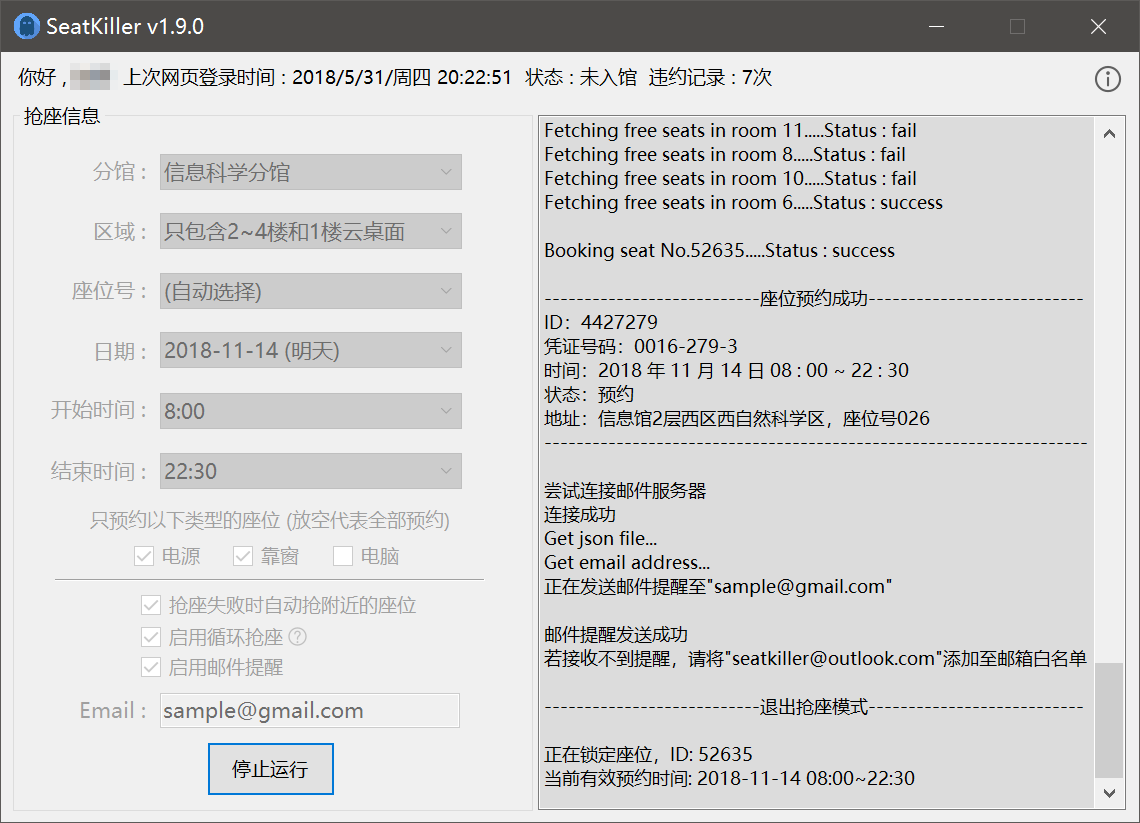
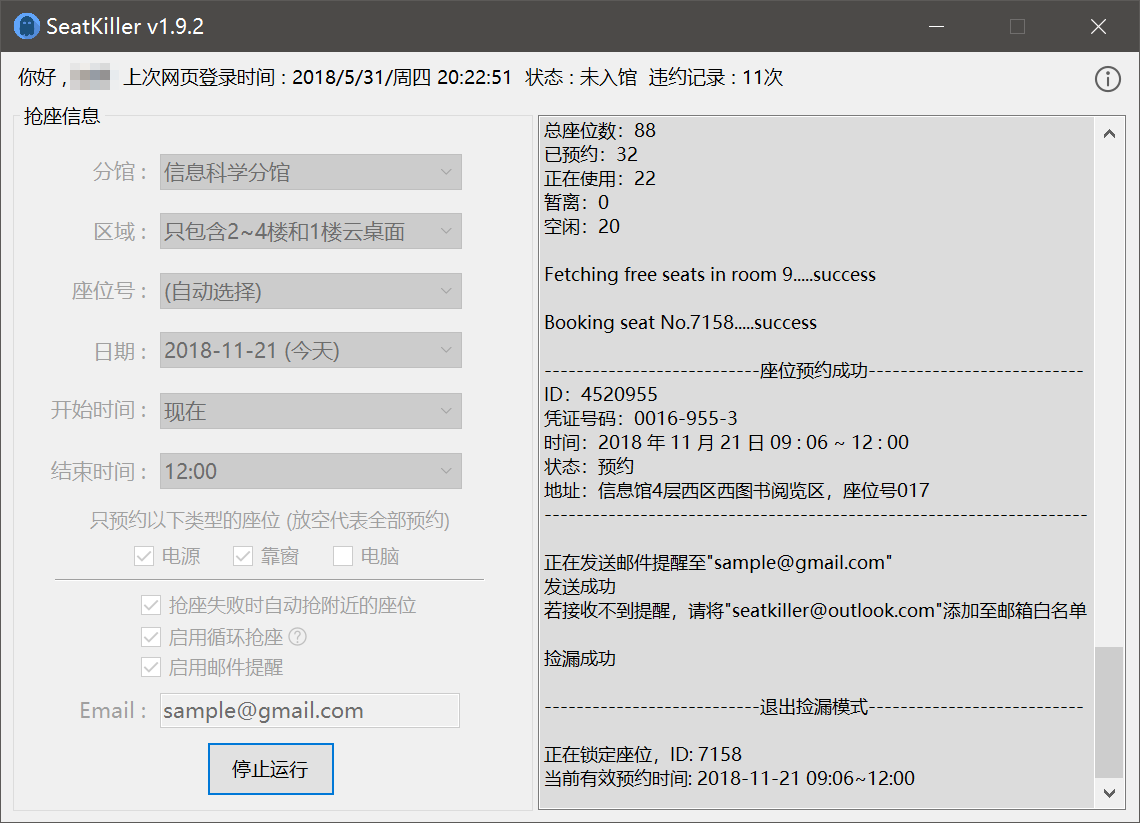
修复区域号错乱的问题

diff --git a/SeatKiller_UI/SeatKiller.cs b/SeatKiller_UI/SeatKiller.cs
@@ -750,7 +750,7 @@ namespace SeatKiller_UI
                 }
                 catch
                 {
-                    Config.config.textBox2.AppendText("连接丢失");
+                    Config.config.textBox2.AppendText("\r\n连接丢失");
                 }
             }
             else if (to_addr == "")
@@ -981,7 +981,6 @@ namespace SeatKiller_UI
         public static bool Loop(string buildingId, string[] rooms, string startTime, string endTime, string roomId = "0", string seatId = "0")
         {
             Config.config.textBox2.AppendText("\r\n\r\n---------------------------进入捡漏模式---------------------------\r\n");
-            string date = DateTime.Now.ToString("yyyy-MM-dd");
 
             if (DateTime.Now.TimeOfDay.TotalMinutes < 60 || DateTime.Now.TimeOfDay.TotalMinutes > 1420)
             {
@@ -994,6 +993,7 @@ namespace SeatKiller_UI
                 return false;
             }
 
+            string date = DateTime.Now.ToString("yyyy-MM-dd");
             GetRooms(buildingId);
 
             if (seatId != "0" && !Config.config.checkBox1.Checked)
@@ -1012,6 +1012,11 @@ namespace SeatKiller_UI
                     Config.config.textBox2.AppendText("\r\n\r\n捡漏失败，超出系统开放时间\r\n");
                     Config.config.textBox2.AppendText("\r\n---------------------------退出捡漏模式---------------------------\r\n");
                     return false;
+                }
+
+                if (startTime != "-1" && (int)DateTime.Now.TimeOfDay.TotalMinutes > int.Parse(startTime))
+                {
+                    startTime = "-1";
                 }
 
                 if (seatId != "0")
@@ -1116,8 +1121,6 @@ namespace SeatKiller_UI
         public static bool ExchangeLoop(string buildingId, string[] rooms, string startTime, string endTime, string roomId = "0", string seatId = "0")
         {
             Config.config.textBox2.AppendText("\r\n\r\n---------------------------进入改签模式---------------------------\r\n");
-            bool cancelled = false;
-            string date = DateTime.Now.ToString("yyyy-MM-dd");
 
             if (DateTime.Now.TimeOfDay.TotalMinutes < 60 || DateTime.Now.TimeOfDay.TotalMinutes > 1420)
             {
@@ -1130,6 +1133,8 @@ namespace SeatKiller_UI
                 return false;
             }
 
+            bool cancelled = false;
+            string date = DateTime.Now.ToString("yyyy-MM-dd");
             GetRooms(buildingId);
 
             if (seatId != "0" && !Config.config.checkBox1.Checked)
@@ -1148,6 +1153,11 @@ namespace SeatKiller_UI
                     Config.config.textBox2.AppendText("\r\n\r\n改签失败，超出系统开放时间\r\n");
                     Config.config.textBox2.AppendText("\r\n---------------------------退出改签模式---------------------------\r\n");
                     return false;
+                }
+
+                if (startTime != "-1" && (int)DateTime.Now.TimeOfDay.TotalMinutes > int.Parse(startTime))
+                {
+                    startTime = "-1";
                 }
 
                 if (seatId != "0")

diff --git a/SeatKiller_UI/Config.cs b/SeatKiller_UI/Config.cs
@@ -248,7 +248,7 @@ namespace SeatKiller_UI
             if (button1.Text == "开始抢座")
             {
                 Main.buildingId = comboBox1.SelectedValue.ToString();
-                Main.roomId = comboBox2.SelectedValue.ToString();
+                Main.roomId = comboBox2.SelectedValue.ToString() == "1" ? "0" : comboBox2.SelectedValue.ToString();
                 Main.seatId = comboBox6.SelectedValue.ToString();
                 Main.date = comboBox3.SelectedValue.ToString();
                 Main.startTime = comboBox4.SelectedValue.ToString();
@@ -262,7 +262,7 @@ namespace SeatKiller_UI
                 switch (Main.buildingId)
                 {
                     case "1":
-                        Main.rooms = (((IList)SeatKiller.xt_lite).Contains(Main.roomId) || Main.roomId == "1") ? SeatKiller.xt_lite : SeatKiller.xt;
+                        Main.rooms = (((IList)SeatKiller.xt_lite).Contains(Main.roomId) || comboBox2.SelectedValue.ToString() == "1") ? SeatKiller.xt_lite : SeatKiller.xt;
                         break;
                     case "2":
                         Main.rooms = SeatKiller.gt;
